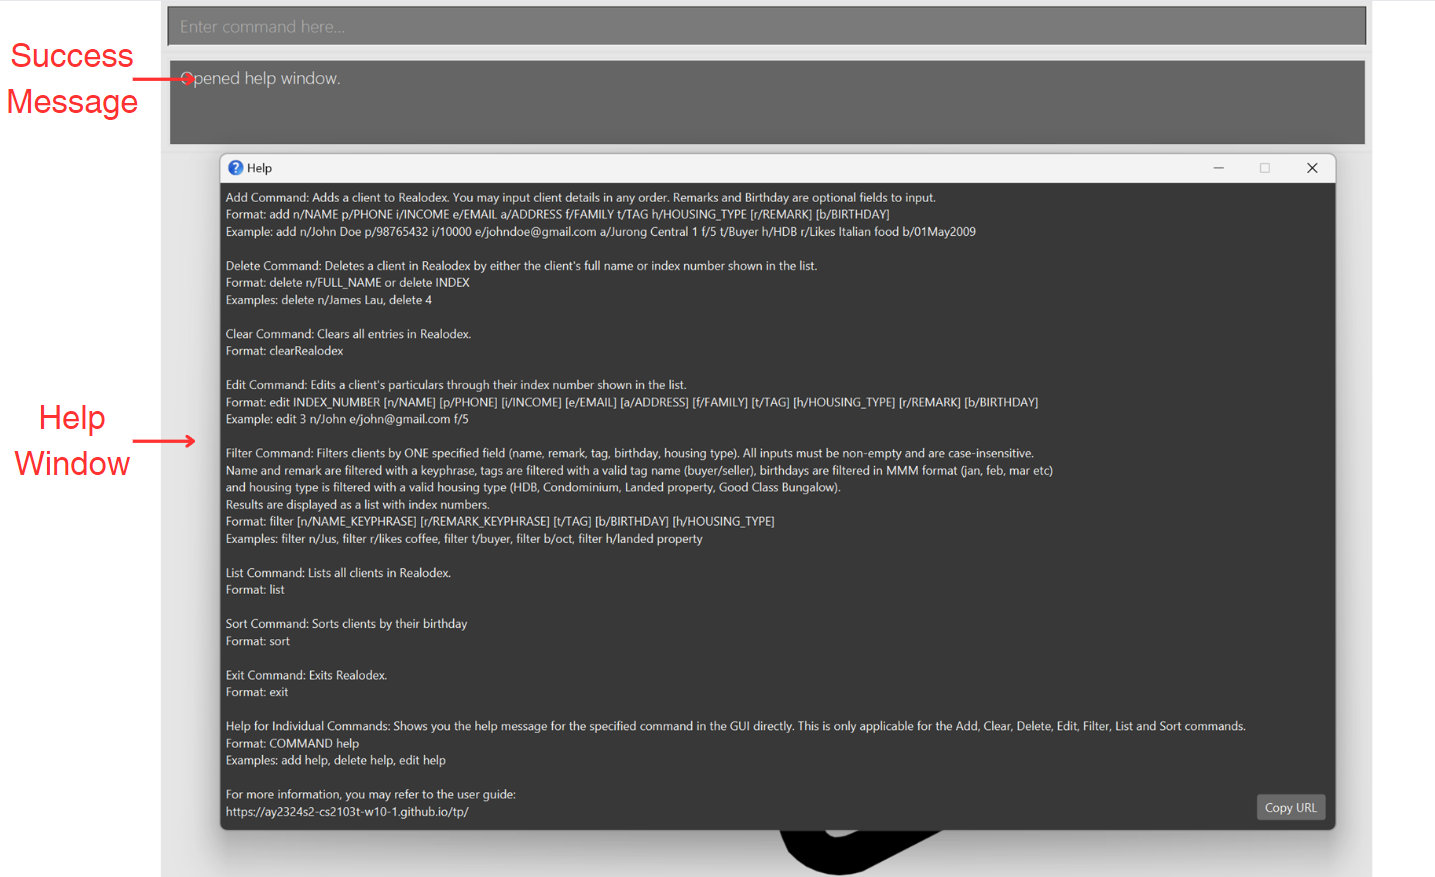
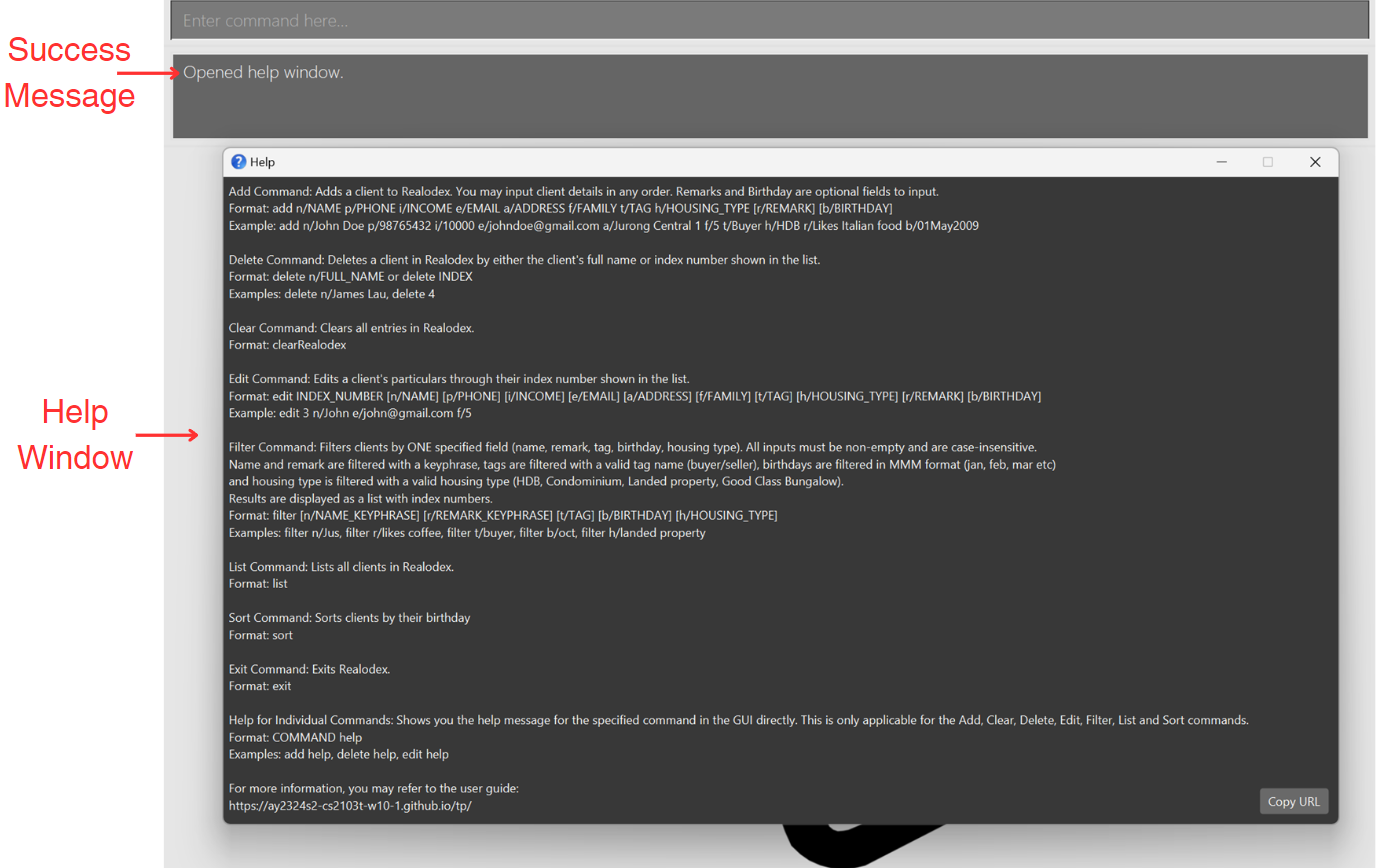
Remove captions

Changed region(s): [[0.0, 0.0, 0.9878, 1.0]]

diff --git a/docs/UserGuide.md b/docs/UserGuide.md
@@ -408,14 +408,11 @@ calculated by the number of days until their next birthday relative to the curre
 
 **Example:**
 
-* Upon `sort`, the list on the screen will be filtered to return a new sorted list.
+* Upon `sort`, the list on the screen will be filtered to return a new sorted list by nearest birthday.
 
 <div style="display:flex; justify-content: center; align-items:center;">
 <img src="images/sort/sort-day_showcase.png" alt="sort" style=" width: 800px; margin-bottom: 16px;">
 </div>
-<p align="center">
-  <em> <code>sort</code> returns new sorted list by nearing birthday</em>
-</p>
 
 --------------------------------------------------------------------------------------------------------------------
 
@@ -444,9 +441,6 @@ Be careful with <code>clearRealodex</code>, you will be unable to undo this oper
 <div style="display:flex; justify-content: center; align-items:center;">
 <img src="images/misc_features/clear.png" alt="clear" style=" width: 900px; margin-bottom: 16px;">
 </div>
-<p align="center">
-  <em> <code>clear</code> clears list of Realodex</em>
-</p>
 
 --------------------------------------------------------------------------------------------------------------------
 
@@ -463,13 +457,10 @@ Generates a pop-up window, which is a summarized version of the User Guide and i
 </box>
 
 **Example:**
-* Upon `help`, Realodex will pop up a help window.
+* Upon `help`, Realodex will pop up a help window together with a success message.
 <div style="display:flex; justify-content: center; align-items:center;">
 <img src="images/misc_features/help_window.png" alt="help_window" style=" width: 900px; margin-bottom: 16px;">
 </div>
-<p align="center">
-  <em>Help window pop up with success message</em>
-</p>
 
 --------------------------------------------------------------------------------------------------------------------
 
@@ -491,12 +482,11 @@ Shows the help message for the specified command only.
 
 **Example:**
 1. User types in `add help`.
-2. Realodex posts the help message for `add` command.
+2. Realodex posts the help message for `add` command as shown below.
 <p align="center">
       <a href="images/misc_features/command_help.png">
       <img src="images/misc_features/command_help.png" alt="command_help" style="width:120%">
       </a>
-  <em> <code>add help</code> provides the help message for the <code>add</code> command</em>
 </p>
 
 --------------------------------------------------------------------------------------------------------------------
